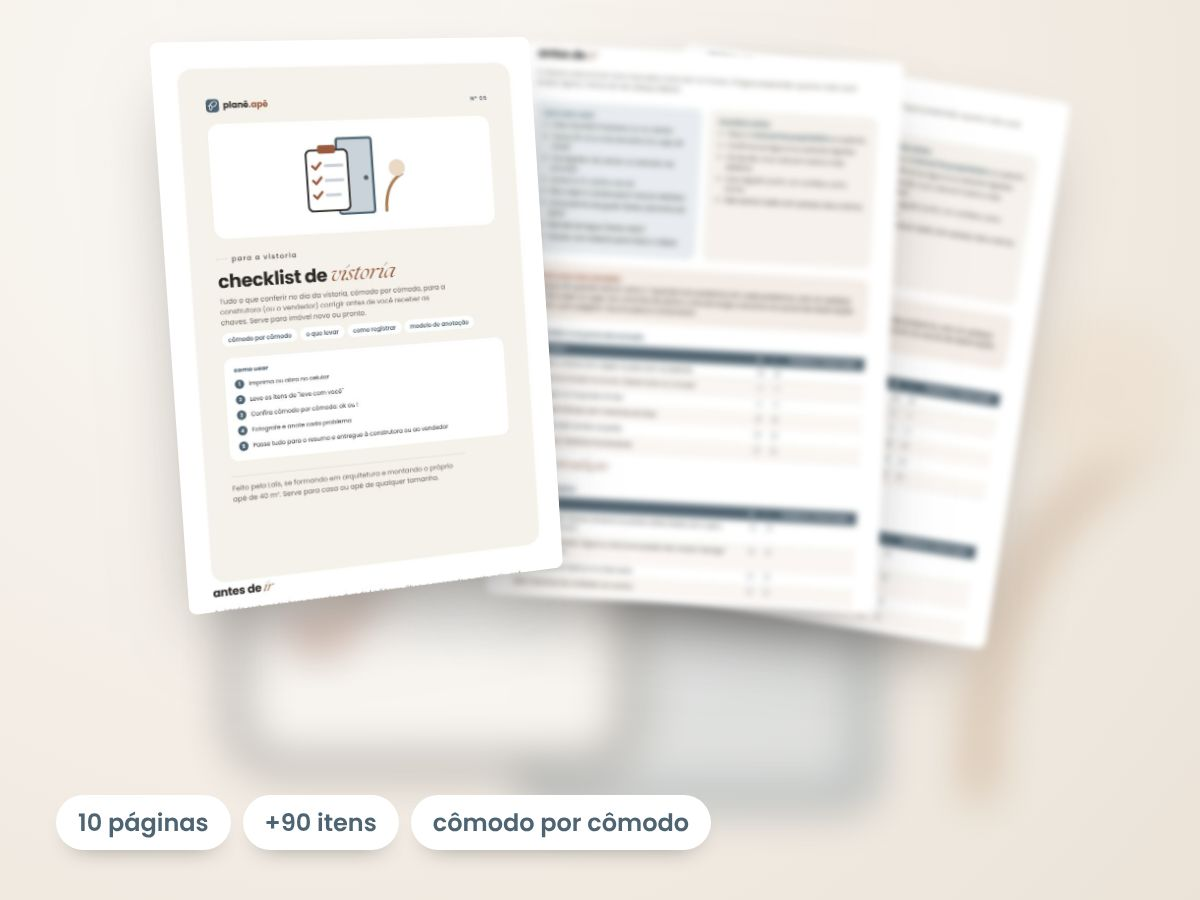
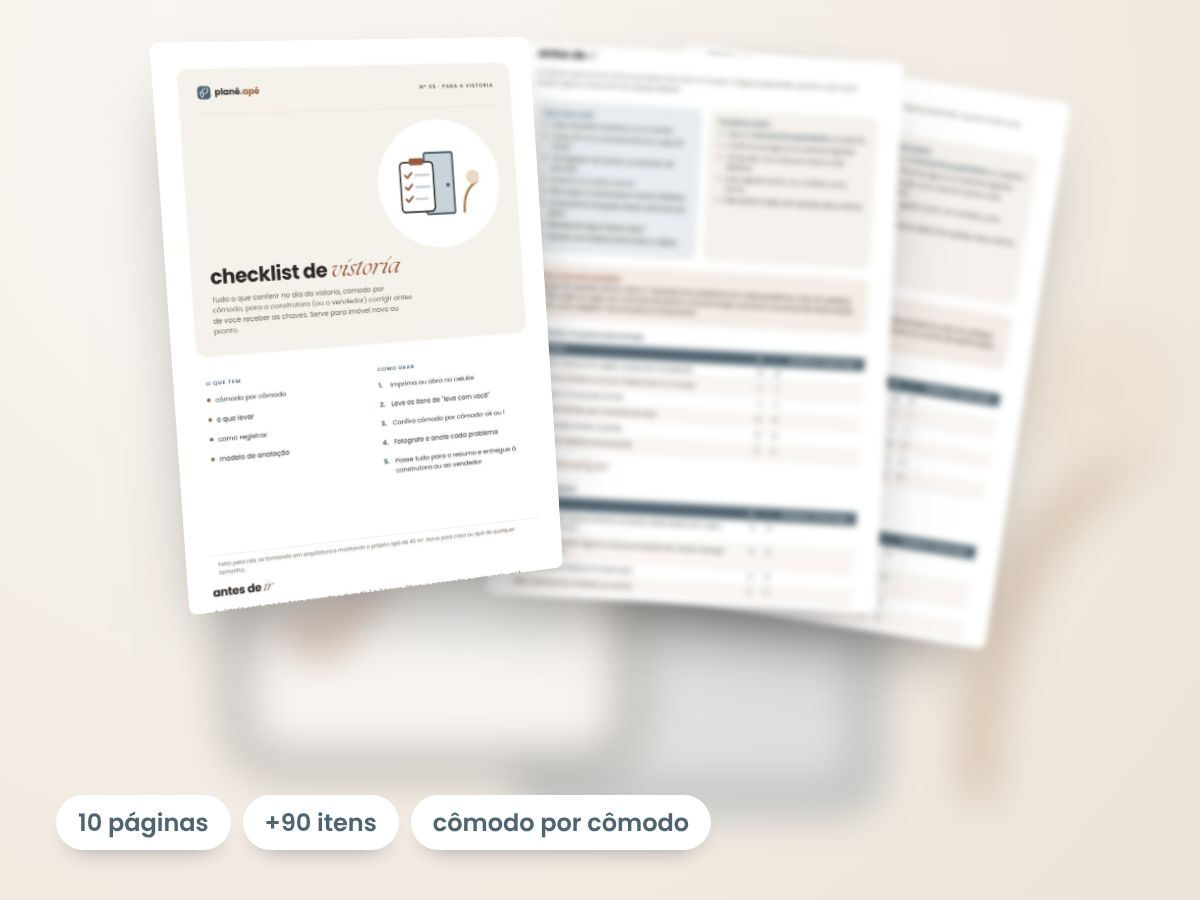
planê.apê: enviar só o contato do fornecedor ou a tabela de preços (aparecem em "contatos e tabelas" de cada serviço, fora do "mais compensa"); capas dos arquivos mais organizadas e mockups novos
Claude-Session: https://claude.ai/code/session_013WAnqmvzd8ZWtsf2naXoHW

diff --git a/src/ape/Enviar.tsx b/src/ape/Enviar.tsx
@@ -4,7 +4,7 @@ import { lerArquivo, meuOrcamento, publicar, subirArquivos, apeCloud } from './a
 import { ApeArt } from './ApeArt'
 import { ApeIcon } from './ApeIcon'
 import { faltando, lerTexto, nichoDoTexto } from './comparar'
-import { APE, NICHOS, blankOrcamento, brl, cleanOrcamento, ehSanLevi, msgAnexo, nicho, num, wa, type Arquivo, type Morador, type Orcamento } from './model'
+import { APE, NICHOS, blankOrcamento, brl, cleanOrcamento, ehSanLevi, msgAnexo, nicho, num, wa, type Arquivo, type Morador, type Orcamento, type TipoEnvio } from './model'
 
 /* Enviar orçamento: anexa um ou mais arquivos, cada arquivo vira um orçamento lido sozinho (IA no servidor;
    sem IA, regras simples sobre o texto do PDF). A pessoa só completa o que faltou e publica direto na comparação. */
@@ -45,13 +45,14 @@ export function Enviar({ me, whats, orcamentos, meusIds, onPublicado, onCadastro
   const [err, setErr] = useState('')
   const [busy, setBusy] = useState('')
   const [feitos, setFeitos] = useState<Orcamento[]>([])
+  const [tipo, setTipo] = useState<TipoEnvio>('orcamento')
   const meus = orcamentos.filter((o) => meusIds.includes(o.id))
   useEffect(() => setErr(''), [lidos.length])
 
   const atualizar = (key: string, fn: (l: Lido) => Lido) => setLidos((ls) => ls.map((l) => (l.key === key ? fn(l) : l)))
 
   /** Lê um arquivo (ou o texto colado) e devolve o orçamento já no formato da comparação. */
-  const ler = async (key: string, file: File | null, txt: string) => {
+  const ler = async (key: string, file: File | null, txt: string, t: TipoEnvio = tipo) => {
     try {
       let arquivos: Arquivo[] = []
       if (file) arquivos = await subirArquivos([file])
@@ -67,6 +68,7 @@ export function Enviar({ me, whats, orcamentos, meusIds, onPublicado, onCadastro
       }
       if (base.nicho === 'outros') base.nicho = (nichoDoTexto(textoLocal + ' ' + base.servico) || 'outros') as Orcamento['nicho']
       if (!base.servico) base.servico = base.nicho !== 'outros' ? nicho(base.nicho).l : ''
+      if (t !== 'orcamento') base.tipo = t
       atualizar(key, (l) => ({ ...l, o: { ...base, id: l.o.id }, status: 'pronto', msg: ia ? 'lido automaticamente' : textoLocal ? 'lido pelo texto do arquivo' : 'complete os dados' }))
     } catch (x) {
       atualizar(key, (l) => ({ ...l, status: 'erro', msg: String((x as Error).message) }))
@@ -78,17 +80,19 @@ export function Enviar({ me, whats, orcamentos, meusIds, onPublicado, onCadastro
     if (list.length + lidos.length > 10) return setErr('Mande até 10 arquivos por vez.')
     const big = list.find((f) => f.size > 15 * 1024 * 1024 && !/^image\//i.test(f.type))
     if (big) return setErr(`O arquivo ${big.name} passa de 15 MB.`)
-    const novos: Lido[] = list.map((f) => ({ key: crypto.randomUUID(), arquivos: [], files: [f], o: blankOrcamento(), status: 'lendo' }))
+    const novos: Lido[] = list.map((f) => ({ key: crypto.randomUUID(), arquivos: [], files: [f], o: blankOrcamento(tipo === 'orcamento' ? {} : { tipo }), status: 'lendo' }))
     setLidos((ls) => [...ls, ...novos])
-    novos.forEach((n) => void ler(n.key, n.files[0], ''))
+    novos.forEach((n) => void ler(n.key, n.files[0], '', tipo))
   }
   const lerColado = () => {
     if (!texto.trim()) return
-    const n: Lido = { key: crypto.randomUUID(), arquivos: [], files: [], o: blankOrcamento(), status: 'lendo' }
+    const n: Lido = { key: crypto.randomUUID(), arquivos: [], files: [], o: blankOrcamento(tipo === 'orcamento' ? {} : { tipo }), status: 'lendo' }
     setLidos((ls) => [...ls, n])
-    void ler(n.key, null, texto)
+    void ler(n.key, null, texto, tipo)
     setTexto('')
   }
+  /** Só o contato do fornecedor: um cartão para preencher na hora. */
+  const novoContato = () => setLidos((ls) => [...ls, { key: crypto.randomUUID(), arquivos: [], files: [], o: blankOrcamento({ tipo: 'contato' }), status: 'pronto', aberto: false, msg: 'preencha o contato' }])
   /** Duas fotos do mesmo orçamento: junta no de cima (soma os itens, mantém os dados que já tinha). */
   const juntar = (i: number) =>
     setLidos((ls) => {
@@ -104,7 +108,7 @@ export function Enviar({ me, whats, orcamentos, meusIds, onPublicado, onCadastro
     const prontos = lidos.filter((l) => l.status === 'pronto')
     if (!prontos.length) return setErr(lidos.some((l) => l.status === 'lendo') ? 'Espere terminar de ler.' : 'Anexe um orçamento.')
     const incompleto = prontos.find((l) => faltando(l.o).length)
-    if (incompleto) return setErr(`Complete ${faltando(incompleto.o).map((f) => (f === 'nicho' ? 'o serviço' : f === 'valor' ? 'o valor' : 'o fornecedor')).join(', ')} do orçamento ${prontos.indexOf(incompleto) + 1}.`)
+    if (incompleto) return setErr(`Complete ${faltando(incompleto.o).map((f) => (f === 'nicho' ? 'o serviço' : f === 'valor' ? 'o valor' : f === 'contato' ? 'o WhatsApp, telefone ou Instagram' : 'o fornecedor')).join(', ')} do item ${prontos.indexOf(incompleto) + 1}.`)
     setBusy('publicando…')
     const ok: Orcamento[] = []
     for (const l of prontos) {
@@ -150,7 +154,7 @@ export function Enviar({ me, whats, orcamentos, meusIds, onPublicado, onCadastro
     return (
       <section className="ape-panel ape-done">
         <ApeIcon name="check" />
-        <h2 className="ape-h2">{feitos.length > 1 ? `${feitos.length} orçamentos` : 'orçamento'} <em>na comparação</em></h2>
+        <h2 className="ape-h2">{feitos.length > 1 ? `${feitos.length} itens` : feitos[0]?.tipo === 'contato' ? 'contato' : feitos[0]?.tipo === 'tabela' ? 'tabela' : 'orçamento'} <em>publicado{feitos.length > 1 ? 's' : feitos[0]?.tipo === 'tabela' ? 'a' : ''}</em></h2>
         <p className="ape-note" style={{ maxWidth: '46ch', margin: 0 }}>Já está lado a lado com os outros, sem os seus dados. Se algo saiu errado, você corrige em "seus orçamentos".</p>
         <div className="ape-acts" style={{ justifyContent: 'center' }}>
           <a className="ape-btn primary" href={href('ape')} onClick={() => { try { localStorage.setItem('ape-ui', JSON.stringify({ nicho: feitos[0].nicho })) } catch { /* ok */ } }}><ApeIcon name="list" />ver a comparação</a>
@@ -163,22 +167,40 @@ export function Enviar({ me, whats, orcamentos, meusIds, onPublicado, onCadastro
     <>
       <form className="ape-panel ape-form" onSubmit={publicarTodos} noValidate>
         <div>
-          <p className="ape-eyebrow"><ApeIcon name="send" />enviar orçamento</p>
-          <h2 className="ape-h2">anexe e <em>compare</em></h2>
+          <p className="ape-eyebrow"><ApeIcon name="send" />enviar</p>
+          <h2 className="ape-h2">compartilhe com os <em>vizinhos</em></h2>
+        </div>
+        <div className="ape-f">
+          <label>O que você tem?</label>
+          <div className="ape-tipos-envio" role="radiogroup" aria-label="O que você tem">
+            {([
+              ['orcamento', 'orçamento', 'proposta com valores para o seu apê'],
+              ['tabela', 'tabela de preços', 'lista de valores, catálogo ou print'],
+              ['contato', 'só o contato', 'indicação de fornecedor, sem preço'],
+            ] as const).map(([id, l, d]) => (
+              <button key={id} type="button" role="radio" aria-checked={tipo === id} onClick={() => setTipo(id)}>
+                <b>{l}</b>
+                <span>{d}</span>
+              </button>
+            ))}
+          </div>
         </div>
         <ol className="ape-steps ape-steps-num">
-          <li><b>1</b><span>Anexe o PDF ou os prints (pode mandar vários de uma vez)</span></li>
+          <li><b>1</b><span>{tipo === 'contato' ? 'Preencha o contato ou anexe o print do cartão / da conversa' : tipo === 'tabela' ? 'Anexe o print ou o PDF da tabela de preços' : 'Anexe o PDF ou os prints (pode mandar vários de uma vez)'}</span></li>
           <li><b>2</b><span>Confira o que foi lido e complete só o que faltar</span></li>
-          <li><b>3</b><span>Publique: entra direto na comparação, sem os seus dados</span></li>
+          <li><b>3</b><span>{tipo === 'orcamento' ? 'Publique: entra direto na comparação, sem os seus dados' : 'Publique: aparece em "contatos e tabelas" do serviço, sem os seus dados'}</span></li>
         </ol>
+        {tipo === 'contato' && (
+          <button type="button" className="ape-btn primary" onClick={novoContato}><ApeIcon name="plus" />preencher o contato</button>
+        )}
         <label className="ape-drop" htmlFor="e-files">
           <ApeIcon name="clip" />
-          <b>{lidos.length ? 'anexar mais' : 'anexar PDF ou prints'}</b>
+          <b>{tipo === 'contato' ? 'ou anexar print do contato' : tipo === 'tabela' ? (lidos.length ? 'anexar mais' : 'anexar a tabela de preços') : lidos.length ? 'anexar mais' : 'anexar PDF ou prints'}</b>
           <input id="e-files" type="file" multiple accept="application/pdf,image/*" onChange={(e) => { anexar([...(e.target.files || [])]); e.target.value = '' }} />
-          <span className="ape-note">Cada arquivo vira um orçamento. Até 10 por vez, de até 15 MB.</span>
+          <span className="ape-note">{tipo === 'orcamento' ? 'Cada arquivo vira um orçamento.' : 'Cada arquivo vira um item.'} Até 10 por vez, de até 15 MB.</span>
         </label>
         <details className="ape-more">
-          <summary><ApeIcon name="chev" />o orçamento veio por mensagem? cole o texto</summary>
+          <summary><ApeIcon name="chev" />veio por mensagem? cole o texto</summary>
           <div className="ape-f" style={{ marginTop: 8 }}>
             <textarea value={texto} onChange={(e) => setTexto(e.target.value)} placeholder="Cole aqui o que o fornecedor mandou: valores, parcelas, o que inclui, validade…" aria-label="Texto do orçamento" />
             <button type="button" className="ape-btn sm" onClick={lerColado} disabled={!texto.trim()}>ler o texto</button>
@@ -195,7 +217,7 @@ export function Enviar({ me, whats, orcamentos, meusIds, onPublicado, onCadastro
           <div className="ape-acts">
             <button className="ape-btn primary" type="submit" disabled={!!busy || lidos.some((l) => l.status === 'lendo')}>
               <ApeIcon name="send" />
-              {busy || (lidos.some((l) => l.status === 'lendo') ? 'lendo…' : `publicar ${lidos.filter((l) => l.status === 'pronto').length > 1 ? `os ${lidos.filter((l) => l.status === 'pronto').length}` : ''} na comparação`)}
+              {busy || (lidos.some((l) => l.status === 'lendo') ? 'lendo…' : `publicar ${lidos.filter((l) => l.status === 'pronto').length > 1 ? `os ${lidos.filter((l) => l.status === 'pronto').length}` : ''}`)}
             </button>
             {err && (
               <a className="ape-btn" href={wa(whats, msgAnexo(me, lidos[0]?.o.fornecedor || ''))} target="_blank" rel="noopener noreferrer"><ApeIcon name="chat" />mandar pelo WhatsApp</a>
@@ -228,15 +250,35 @@ function LidoCard({ n, l, podeJuntar, onJuntar, onChange, onToggle, onRemove }: 
       {l.status === 'erro' && <p className="ape-err">{l.msg}</p>}
       {l.status === 'pronto' && (
         <>
+          {o.tipo === 'contato' ? (
+            <div className="ape-lido-edit">
+              <div className="ape-frow">
+                <div className="ape-f"><label>Fornecedor</label><input value={o.fornecedor} onChange={(e) => set('fornecedor', e.target.value)} placeholder="Nome da loja ou profissional" /></div>
+                <div className="ape-f"><label>Serviço</label>
+                  <select value={o.nicho === 'outros' ? '' : o.nicho} onChange={(e) => set('nicho', e.target.value || 'outros')}>
+                    <option value="">Escolha…</option>
+                    {NICHOS.map((x) => <option key={x[0]} value={x[0]}>{x[1]}</option>)}
+                  </select>
+                </div>
+              </div>
+              <div className="ape-frow">
+                <div className="ape-f"><label><span className="ape-keep">WhatsApp</span> ou telefone</label><input inputMode="tel" value={o.whatsapp} onChange={(e) => set('whatsapp', e.target.value)} placeholder="(11) 90000-0000" /></div>
+                <div className="ape-f"><label>Instagram ou site</label><input value={o.instagram || ''} onChange={(e) => set('instagram', e.target.value)} placeholder="@loja" /></div>
+              </div>
+              <div className="ape-f"><label>Comentário (opcional)</label><input value={o.resumo} onChange={(e) => set('resumo', e.target.value)} placeholder="Ex.: atendeu rápido, faz desconto para o condomínio" /></div>
+            </div>
+          ) : (
           <dl className="ape-lido-res">
+            {o.tipo === 'tabela' && (<><dt>tipo</dt><dd>tabela de preços</dd></>)}
             <dt>serviço</dt><dd>{o.nicho !== 'outros' ? nicho(o.nicho).l : '—'}{o.servico && o.servico !== nicho(o.nicho).l ? ` · ${o.servico}` : ''}</dd>
-            <dt>valor</dt><dd className="ape-keep">{num(o.valor_avista) != null ? `${brl(num(o.valor_avista))} à vista` : num(o.valor_total) != null ? brl(num(o.valor_total)) : '—'}{o.parcelas_max ? ` · ${o.parcelas_max}x` : ''}</dd>
-            {(o.itens || []).length > 0 && (<><dt>itens</dt><dd>{o.itens!.length} itens lidos</dd></>)}
+            {o.tipo !== 'tabela' && <dt>valor</dt>}{o.tipo !== 'tabela' && <dd className="ape-keep">{num(o.valor_avista) != null ? `${brl(num(o.valor_avista))} à vista` : num(o.valor_total) != null ? brl(num(o.valor_total)) : '—'}{o.parcelas_max ? ` · ${o.parcelas_max}x` : ''}</dd>}
+            {(o.itens || []).length > 0 && (<><dt>itens</dt><dd>{o.tipo === 'tabela' ? o.itens!.slice(0, 4).map((i) => `${i.descricao}${i.valor != null ? ` ${brl(i.valor)}` : ''}`).join(' · ') + (o.itens!.length > 4 ? ` +${o.itens!.length - 4}` : '') : `${o.itens!.length} itens lidos`}</dd></>)}
             {(o.whatsapp || o.telefone || o.email) && (<><dt>contato</dt><dd>{[o.whatsapp || o.telefone, o.email].filter(Boolean).join(' · ')}</dd></>)}
             {o.prazo && (<><dt>prazo</dt><dd>{o.prazo}</dd></>)}
             {o.garantia && (<><dt>garantia</dt><dd>{o.garantia}</dd></>)}
           </dl>
-          {falta.length > 0 && (
+          )}
+          {falta.length > 0 && o.tipo !== 'contato' && (
             <div className="ape-lido-falta">
               <span className="ape-note"><ApeIcon name="alert" /> Não deu para ler {falta.length > 1 ? 'estes dados' : 'este dado'}. Complete:</span>
               <div className="ape-frow">

diff --git a/src/ape/ApePublic.tsx b/src/ape/ApePublic.tsx
@@ -5,7 +5,7 @@ import { ApeArt } from './ApeArt'
 import { ApeIcon } from './ApeIcon'
 import {
   APE, CTA_BY, CTA_COPY, NICHOS, SORTS, analyze, brl, calc, digits, dmy, firstName, fmtTel, msgFornecedor, msgGrupo, nicho, num, pct, wa, waNum, whyTop,
-  ehSanLevi, ondeMora, type Analise, type Item, type Morador, type Nicho, type Orcamento, type Produto, type Sort,
+  ehSanLevi, ehOrcamento, ondeMora, type Analise, type Item, type Morador, type Nicho, type Orcamento, type Produto, type Sort,
 } from './model'
 import { Assinatura, MARK_SVG, read, useCarrinho, useToast, write } from './shared'
 import { Checkout, Loja, PedidoPage } from './Loja'
@@ -251,7 +251,6 @@ function Orcamentos({ vis, d, owner, me, whats, show, onCount, onEscolha, onEdit
   const counts: Record<string, number> = {}
   for (const o of vis) counts[o.nicho] = (counts[o.nicho] || 0) + 1
   const nf = filtro !== 'todos' && !counts[filtro] ? 'todos' : filtro
-  const comGrupo = vis.filter((o) => num(o.grupo_pct)).length
   const exemplos = vis.filter((o) => o.exemplo).length
 
   if (d.bloqueado && !owner)
@@ -330,9 +329,9 @@ function Orcamentos({ vis, d, owner, me, whats, show, onCount, onEscolha, onEdit
           </div>
         </div>
         <div className="ape-stats">
-          <div className="ape-stat"><b className="num">{vis.length}</b><span>orçamentos</span></div>
+          <div className="ape-stat"><b className="num">{vis.filter(ehOrcamento).length}</b><span>orçamentos</span></div>
           <div className="ape-stat"><b className="num">{Object.keys(counts).length}</b><span>serviços</span></div>
-          <div className="ape-stat"><b className="num">{comGrupo}</b><span>com desconto em grupo</span></div>
+          <div className="ape-stat"><b className="num">{vis.length - vis.filter(ehOrcamento).length}</b><span>contatos e tabelas</span></div>
         </div>
       </section>
       <p className="ape-aviso">
@@ -372,7 +371,10 @@ function Orcamentos({ vis, d, owner, me, whats, show, onCount, onEscolha, onEdit
           </div>
         )}
         {groups.map((id, gi) => {
-          const a = analyze(list.filter((o) => o.nicho === id))
+          const doServico = list.filter((o) => o.nicho === id)
+          const extras = doServico.filter((o) => !ehOrcamento(o))
+          const orcs = doServico.filter(ehOrcamento)
+          const a = analyze(orcs)
           const sorted = [...a.items].sort(SORTS[sort][1])
           const top = sort === 'compensa' && a.top ? a.top : null
           const rest = top ? sorted.filter((x) => x !== top) : sorted
@@ -388,13 +390,15 @@ function Orcamentos({ vis, d, owner, me, whats, show, onCount, onEscolha, onEdit
                   <div>
                     <h3>{n.l}</h3>
                     <span className="ape-note">
-                      {a.items.length} orçamento{a.items.length > 1 ? 's' : ''} · {a.basis === 'm2' ? 'comparando pelo preço por m² à vista' : 'comparando pelo preço à vista'}
+                      {orcs.length ? `${orcs.length} orçamento${orcs.length > 1 ? 's' : ''} · ${a.basis === 'm2' ? 'comparando pelo preço por m² à vista' : 'comparando pelo preço à vista'}` : 'ainda sem orçamento'}
+                      {extras.length ? ` · ${extras.length} ${extras.length > 1 ? 'contatos e tabelas' : extras[0].tipo === 'tabela' ? 'tabela' : 'contato'}` : ''}
                     </span>
                   </div>
                 </div>
-                <Comparar orcs={a.items.map((x) => x.o)} me={me} />
+                <Comparar orcs={orcs} me={me} />
                 {top && card(top, true)}
                 {rest.length > 0 && <div className="ape-grid">{rest.map((x) => card(x, false))}</div>}
+                {extras.length > 0 && <Contatos lista={extras} me={me} />}
               </section>
               {showCta && <Cta nicho={id} produtos={d.ajustes.produtos} me={me} whats={whats} />}
             </div>
@@ -402,6 +406,40 @@ function Orcamentos({ vis, d, owner, me, whats, show, onCount, onEscolha, onEdit
         })}
       </div>
     </>
+  )
+}
+
+/* contatos de fornecedor e tabelas de preço: não entram no "mais compensa", ficam à mão para pedir orçamento */
+function Contatos({ lista, me }: { lista: Orcamento[]; me: Morador | null }) {
+  return (
+    <div className="ape-contatos">
+      <p className="ape-eyebrow">contatos e tabelas</p>
+      <div className="ape-contatos-grid">
+        {lista.map((o) => {
+          const n = waNum(o.whatsapp || o.telefone)
+          const ig = (o.instagram || '').replace(/^@/, '')
+          return (
+            <article key={o.id} className="ape-contato">
+              <div className="t">
+                <b>{o.fornecedor}</b>
+                <span className={`ape-pill ${o.tipo === 'tabela' ? 'terra' : 'azul'}`}>{o.tipo === 'tabela' ? 'tabela de preços' : 'contato'}</span>
+              </div>
+              {o.resumo && <p>{o.resumo}</p>}
+              {o.tipo === 'tabela' && (o.itens || []).length > 0 && (
+                <ul className="ape-tabela">
+                  {o.itens!.slice(0, 8).map((i, k) => <li key={k}><span>{i.descricao}{i.unidade ? ` (${i.unidade})` : ''}</span><b className="num">{i.valor != null ? brl(i.valor) : '—'}</b></li>)}
+                </ul>
+              )}
+              <div className="ape-acts">
+                {n && <a className="ape-btn sm primary" href={wa(n, `Oi! ${me ? `Sou ${me.nome}, ` : ''}vi o seu contato com os vizinhos do ${APE.condominio}. Pode me passar um orçamento de ${nicho(o.nicho).l.toLowerCase()}?`)} target="_blank" rel="noopener noreferrer"><ApeIcon name="chat" />pedir orçamento</a>}
+                {ig && !/\s/.test(ig) && <a className="ape-btn sm" href={/^https?:/.test(o.instagram || '') ? o.instagram : `https://instagram.com/${ig}`} target="_blank" rel="noopener noreferrer">{/^https?:/.test(o.instagram || '') ? 'site' : `@${ig}`}</a>}
+                {!n && !ig && <span className="ape-note">{o.email || 'sem contato informado'}</span>}
+              </div>
+            </article>
+          )
+        })}
+      </div>
+    </div>
   )
 }
 

diff --git a/src/ape/ape.css b/src/ape/ape.css
@@ -834,3 +834,23 @@
 .ape .ape-steps-num li { font-size: 13px; }
 .ape-cmp-dest .ape-pill { display: block; border-radius: 12px; padding: 6px 10px; line-height: 1.4; }
 .ape-cmp-dest .ape-pill .ape-i { vertical-align: -2px; margin-right: 4px; }
+
+/* enviar: o que você tem? (orçamento, tabela ou contato) */
+.ape-tipos-envio { display: grid; grid-template-columns: repeat(3, minmax(0, 1fr)); gap: 8px; }
+.ape-tipos-envio button { display: grid; gap: 2px; text-align: left; border: 1.5px solid var(--a-line); background: var(--a-card); border-radius: 14px; padding: 10px 12px; min-width: 0; }
+.ape-tipos-envio button b { font-size: 13.5px; text-transform: lowercase; }
+.ape-tipos-envio button span { font-size: 11.5px; color: var(--a-muted); }
+.ape-tipos-envio button[aria-checked='true'] { border-color: var(--a-pri); background: var(--a-pri-soft); }
+.ape-tipos-envio button[aria-checked='true'] b { color: var(--a-pri); }
+@media (max-width: 560px) { .ape-tipos-envio { grid-template-columns: minmax(0, 1fr); } }
+/* contatos e tabelas na lista */
+.ape-contatos { display: grid; gap: 8px; }
+.ape-contatos .ape-eyebrow { margin: 4px 0 0; }
+.ape-contatos-grid { display: grid; grid-template-columns: repeat(auto-fill, minmax(min(100%, 260px), 1fr)); gap: 10px; }
+.ape-contato { background: var(--a-card); border: 1px dashed color-mix(in srgb, var(--a-pri) 35%, var(--a-line)); border-radius: 16px; padding: 12px 14px; display: grid; gap: 8px; min-width: 0; align-content: start; }
+.ape-contato .t { display: flex; justify-content: space-between; gap: 8px; align-items: flex-start; }
+.ape-contato .t b { font-size: 14px; overflow-wrap: anywhere; }
+.ape-contato p { margin: 0; font-size: 12.5px; color: var(--a-muted); }
+.ape-tabela { list-style: none; margin: 0; padding: 0; display: grid; gap: 3px; font-size: 12.5px; }
+.ape-tabela li { display: flex; justify-content: space-between; gap: 10px; border-bottom: 1px solid var(--a-line); padding: 3px 0; }
+.ape-tabela li span { min-width: 0; overflow-wrap: anywhere; }

diff --git a/src/ape/model.ts b/src/ape/model.ts
@@ -70,7 +70,10 @@ export interface Orcamento {
   endereco?: string
   arquivos?: { nome: string; tipo: string }[]
   enviado?: boolean // mandado por um morador (vai direto para a comparação)
+  tipo?: TipoEnvio // orçamento (padrão), tabela de preços ou só o contato do fornecedor
 }
+export type TipoEnvio = 'orcamento' | 'tabela' | 'contato'
+export const ehOrcamento = (o: Orcamento) => !o.tipo || o.tipo === 'orcamento'
 export interface ItemOrc { descricao: string; qtd: number | null; unidade: string; valor: number | null }
 
 export type Categoria = 'arquivos' | 'combos' | 'plataforma' | 'projeto'
@@ -476,6 +479,7 @@ export function cleanOrcamento(raw: Record<string, unknown>, keep: Partial<Orcam
   for (const k of ['email', 'telefone', 'cnpj', 'endereco'] as const) if (raw2[k] != null && String(raw2[k]).trim()) o[k] = String(raw2[k]).trim().slice(0, 160)
   if (Array.isArray(raw2.arquivos)) o.arquivos = (raw2.arquivos as { nome?: string; tipo?: string }[]).map((a) => ({ nome: String(a?.nome ?? ''), tipo: String(a?.tipo ?? '') })).slice(0, 8)
   if (raw2.enviado === true) o.enviado = true
+  if (raw2.tipo === 'tabela' || raw2.tipo === 'contato') o.tipo = raw2.tipo
   if (!o.whatsapp && o.telefone && digits(o.telefone).length === 11) o.whatsapp = digits(o.telefone)
   return o
 }

diff --git a/src/ape/comparar.ts b/src/ape/comparar.ts
@@ -285,10 +285,12 @@ export function nichoDoTexto(txt: string): Nicho | '' {
 }
 
 /** O que ainda falta preencher para o orçamento entrar bem na comparação (a pessoa só completa isso). */
-export function faltando(o: Partial<Orcamento>): ('fornecedor' | 'nicho' | 'valor')[] {
-  const f: ('fornecedor' | 'nicho' | 'valor')[] = []
+export function faltando(o: Partial<Orcamento>): ('fornecedor' | 'nicho' | 'valor' | 'contato')[] {
+  const f: ('fornecedor' | 'nicho' | 'valor' | 'contato')[] = []
   if (!String(o.fornecedor || '').trim()) f.push('fornecedor')
   if (!o.nicho || o.nicho === 'outros') f.push('nicho')
-  if (num(o.valor_total) == null && num(o.valor_avista) == null) f.push('valor')
+  if (o.tipo === 'contato') {
+    if (!digits(o.whatsapp).length && !digits(o.telefone).length && !String(o.instagram || '').trim() && !String(o.email || '').trim()) f.push('contato')
+  } else if (o.tipo !== 'tabela' && num(o.valor_total) == null && num(o.valor_avista) == null) f.push('valor')
   return f
 }
